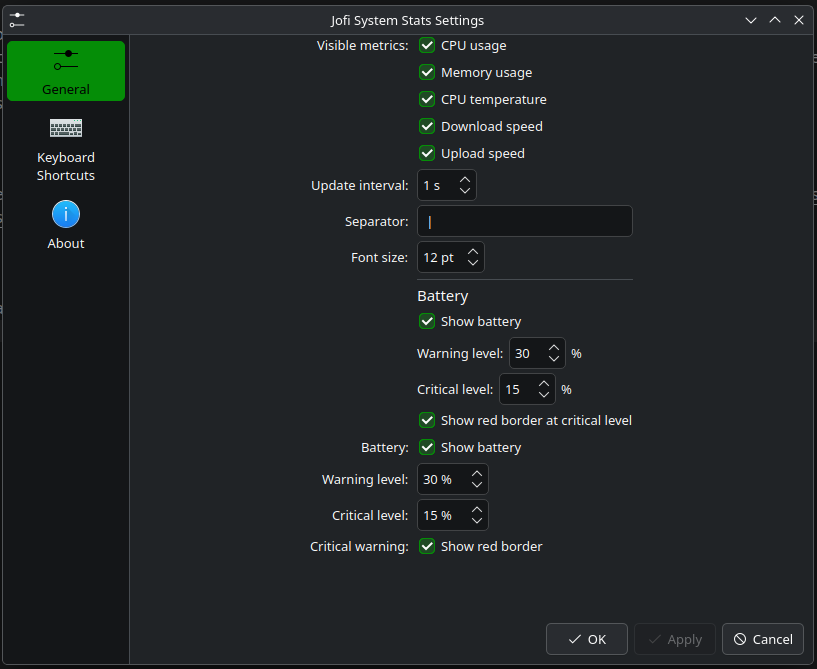
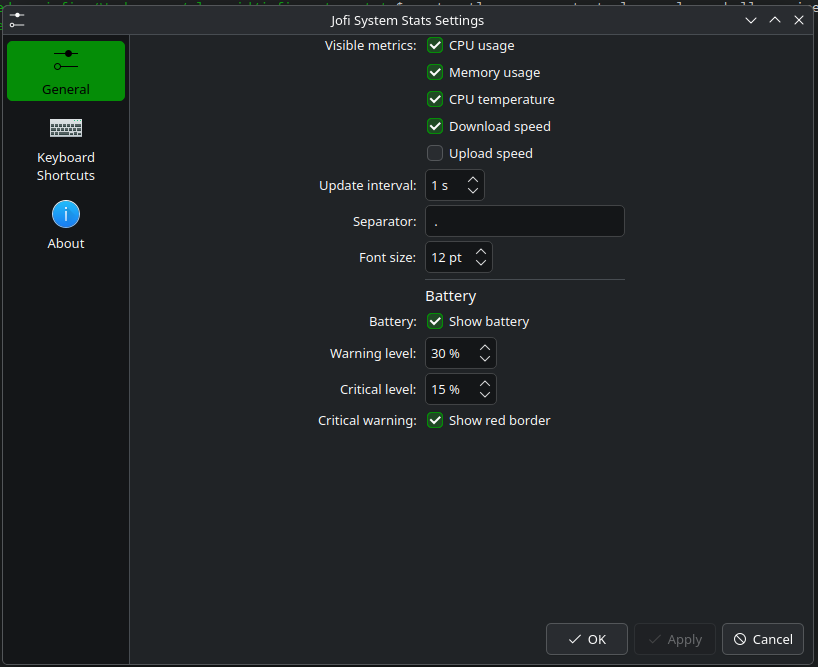
Fix duplicate settings and bump release to 1.1.1

diff --git a/contents/ui/configGeneral.qml b/contents/ui/configGeneral.qml
@@ -107,64 +107,6 @@ Kirigami.FormLayout {
     }
 
     QQC2.CheckBox {
-        text: "Show battery"
-        checked: cfg_showBattery
-
-        onToggled: {
-            cfg_showBattery = checked
-        }
-    }
-
-    RowLayout {
-        QQC2.Label {
-            text: "Warning level:"
-        }
-
-        QQC2.SpinBox {
-            from: 1
-            to: 100
-            value: cfg_batteryWarning
-
-            onValueModified: {
-                cfg_batteryWarning = value
-            }
-        }
-
-        QQC2.Label {
-            text: "%"
-        }
-    }
-
-    RowLayout {
-        QQC2.Label {
-            text: "Critical level:"
-        }
-
-        QQC2.SpinBox {
-            from: 1
-            to: 100
-            value: cfg_batteryCritical
-
-            onValueModified: {
-                cfg_batteryCritical = value
-            }
-        }
-
-        QQC2.Label {
-            text: "%"
-        }
-    }
-
-    QQC2.CheckBox {
-        text: "Show red border at critical level"
-        checked: cfg_batteryCriticalBorder
-
-        onToggled: {
-            cfg_batteryCriticalBorder = checked
-        }
-    }
-
-    QQC2.CheckBox {
         id: showBattery
 
         Kirigami.FormData.label: "Battery:"
